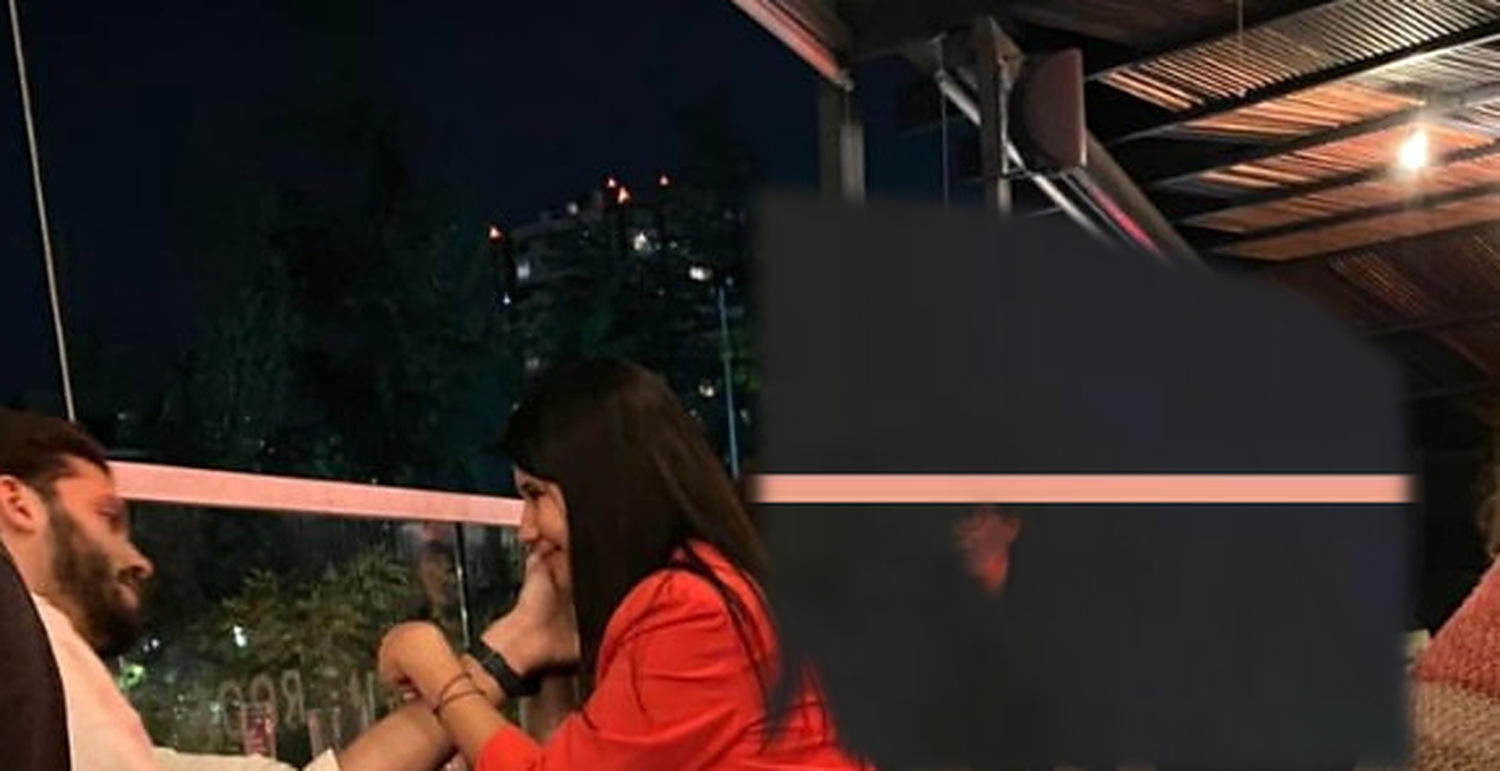
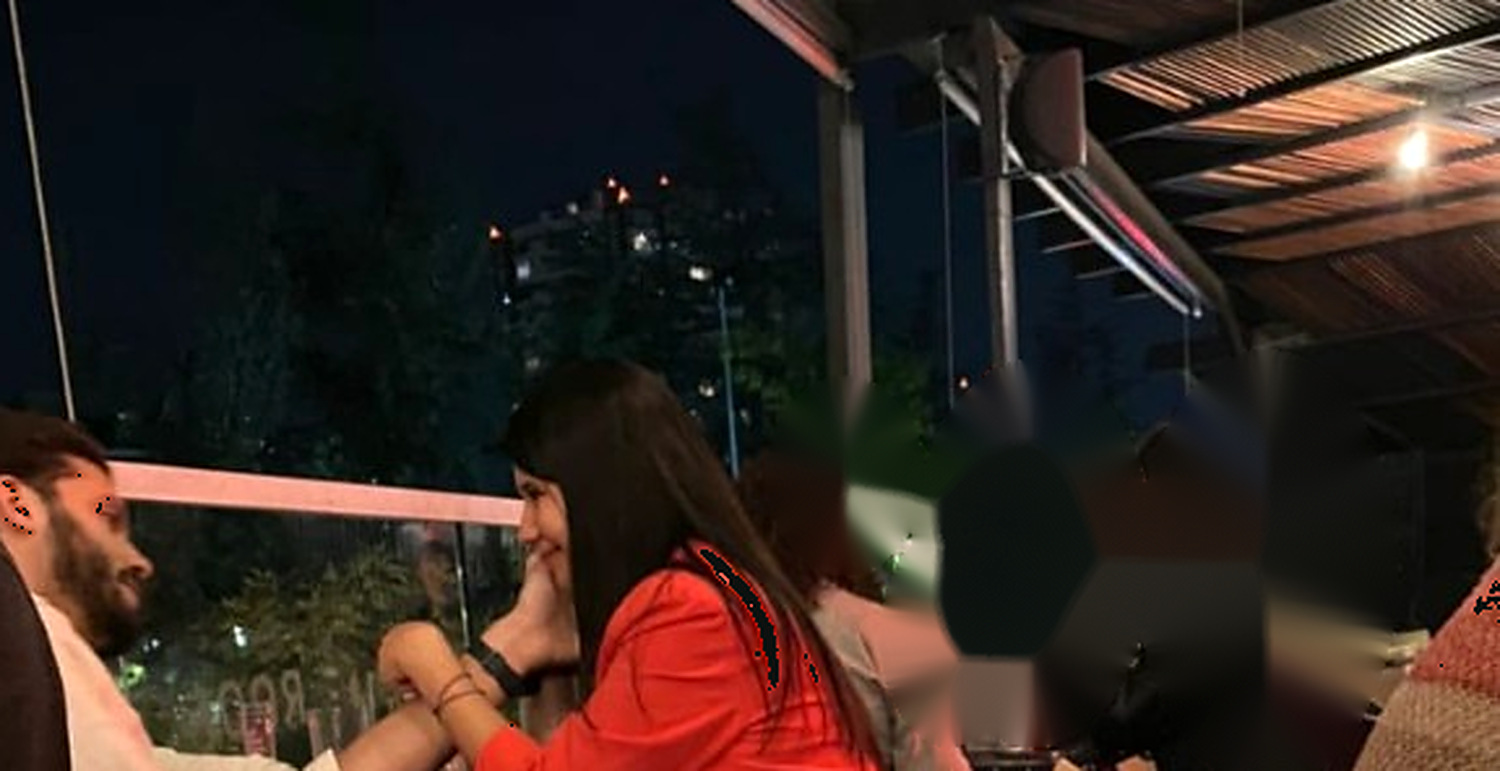
Refresh the last-stop photo so the itinerary shows the updated image.

Changed region(s): [[0.46, 0.249, 0.9507, 1.0], [0.9813, 0.7471, 1.0, 0.8093], [0.0, 0.6226, 0.0307, 0.6848]]

diff --git a/src/data/itinerary.ts b/src/data/itinerary.ts
@@ -47,7 +47,7 @@ export const itinerary: ItineraryDay[] = [
     titleEs: "Last Stop Before “I Do”",
     titleEn: "Last Stop Before “I Do”",
     time: "7:00 p. m.",
-    photo: assetUrl("/images/gallery/cita.jpg"),
+    photo: assetUrl("/images/gallery/cita.jpg?v=2"),
     dressEs: "Blanco · casual playa",
     dressEn: "White · casual beach",
     dressLink: "https://www.pinterest.com/mariauxirodrguez/last-stop-before-i-do/",
